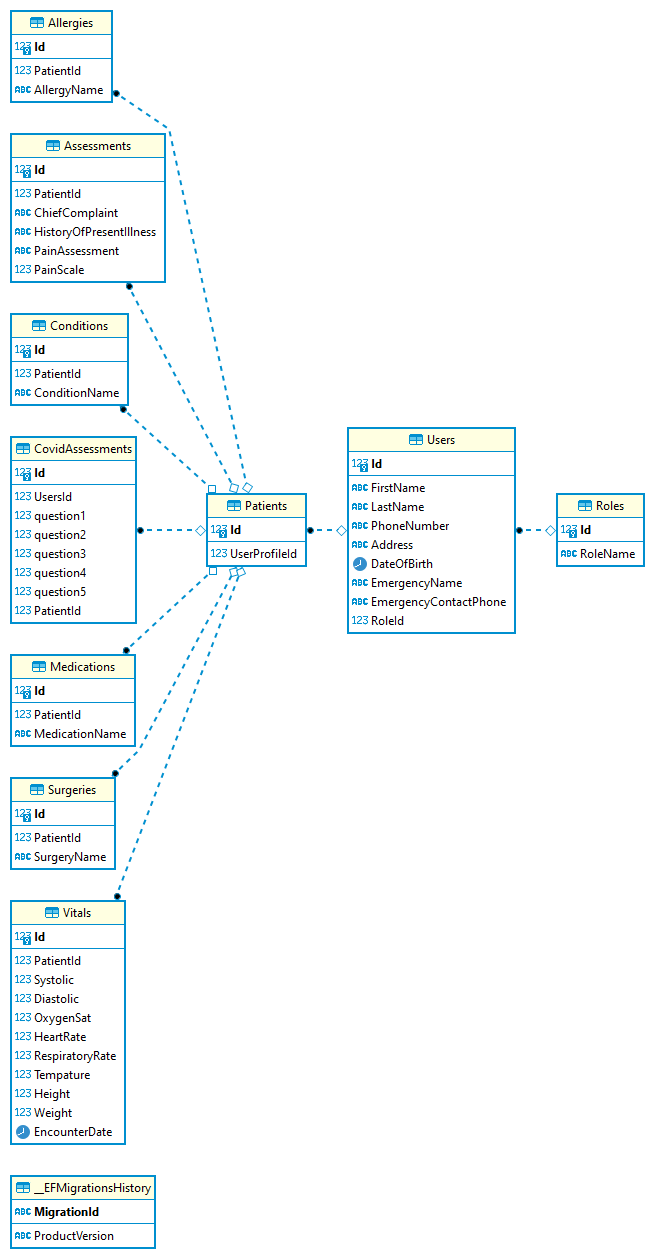
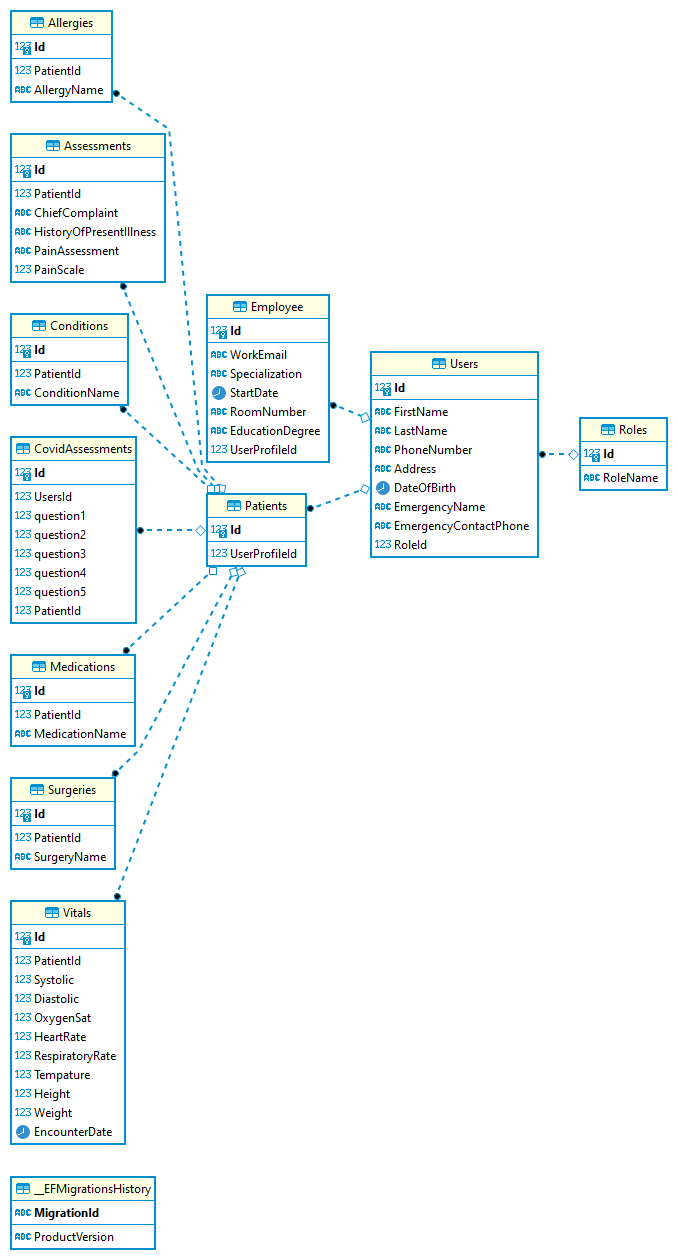
new erd

diff --git a/Backend/Data/Repositories/CovidRepository.cs b/Backend/Data/Repositories/CovidRepository.cs
@@ -15,5 +15,14 @@ namespace Data
         {
             repository = context;
         }
+        /// <summary>
+        /// Acquiring Covid Verificaiton By User ID
+        /// </summary>
+        /// <param name="userId">int to locate user for which we're trying to find verificaiton</param>
+        /// <returns>The Covid Verification</returns>
+        public CovidVerify GetCovidVerificationByUserId(int userId)
+        {
+            return repository.CovidAssessments.Single(c => c.UsersId.Equals(userId));
+        } 
     }
 }

diff --git a/Backend/Data/Repositories/EmployeeInformationRepository.cs b/Backend/Data/Repositories/EmployeeInformationRepository.cs
@@ -1,3 +1,5 @@
+using System.Collections.Generic;
+using System.Linq;
 using Models;
 
 namespace Data
